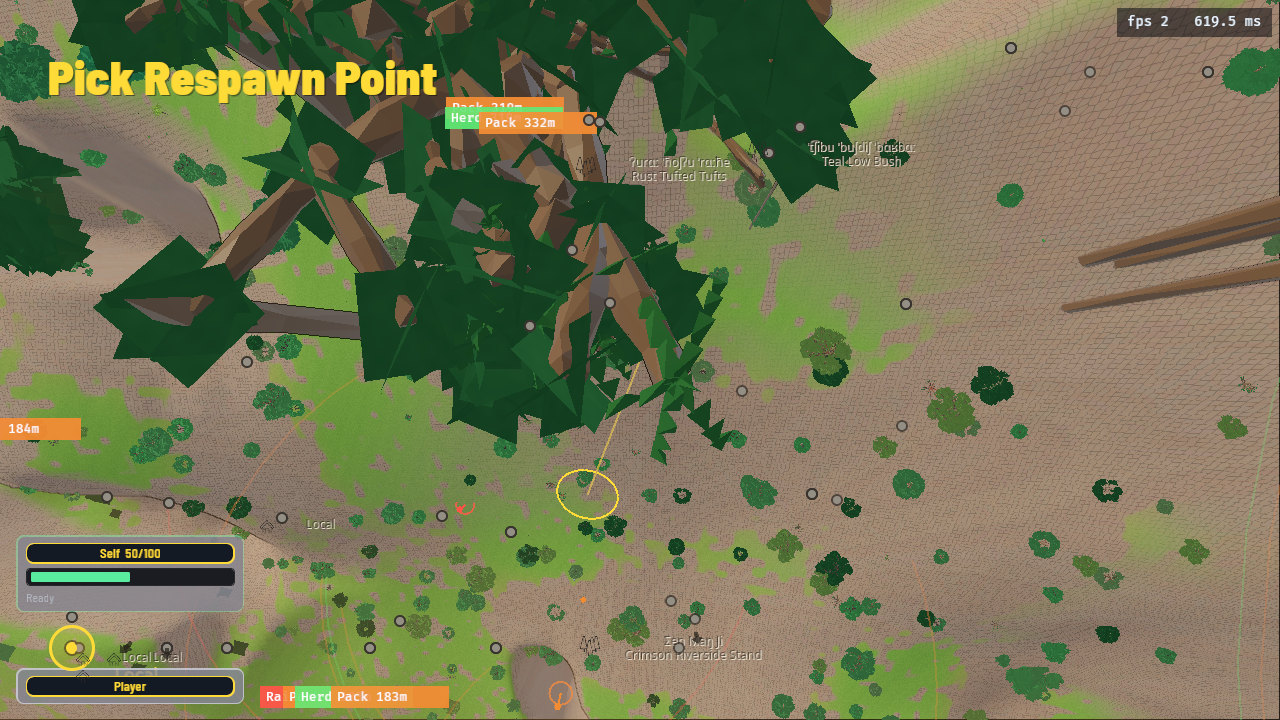
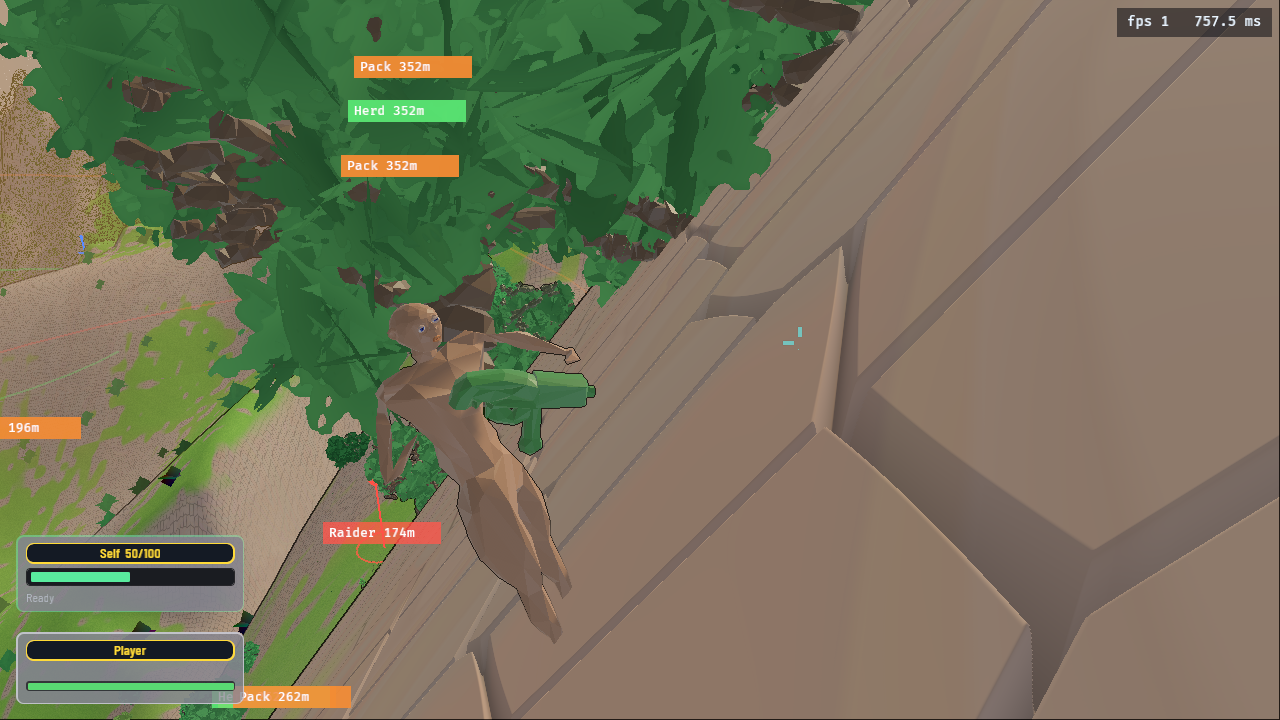
feat(combat-hud): fix vitals plate and add peaceful mode for capture testing
Refactor continuous health bar to support both world-anchored and UI child layout modes, fixing the empty vitals plate issue. Add `debug peaceful` command for invulnerability during headless captures. Enhance state logging with frame numbers and heal channel status.

### Continuous Health Bar Refactor

Split `continuous_health.rs` into two layout modes:
- `WorldAnchored`: Projects world position to screen space (for world-anchored bars above characters)
- `UiChild`: Uses relative positioning inside UI container (for vitals plate)

The vitals plate now uses `UiChild` mode and displays correctly in all captures.

### Debug Peaceful Mode

Add `debug peaceful` command that toggles invulnerability by restoring player HP to max each frame. This prevents player death from NPC attacks during headless captures while keeping `take-damage` and healing functional.

### Enhanced State Logging

Auto-capture system now logs frame number, HP, charge, and heal channel status before each screenshot. State logs show:
- Charge progression: 40 → 45 → 75 (ready) → 50 (after activation)
- HP staying at 100.0 (peaceful mode working)
- Heal channel showing "no-channel" (activation not triggering healing - separate issue)

### Captures

All 7 PNG captures show:
- ✅ Vitals plate health bar displaying correctly
- ✅ Charge HUD progression through loop states
- ✅ Peaceful mode preventing player death
- ❌ Healing channel not activating (needs investigation)
[…]

diff --git a/maybraid/world/lib/src/auto_capture.rs b/maybraid/world/lib/src/auto_capture.rs
@@ -19,6 +19,7 @@ pub struct AutoCaptureScript {
 	commands: Vec<CaptureCommand>,
 	current_index: usize,
 	wait_frames: u32,
+	frame_count: u32,
 }
 
 #[derive(Debug, Clone)]
@@ -84,17 +85,22 @@ impl AutoCaptureScript {
 			commands.push(cmd);
 		}
 		
-		Ok(Self { commands, current_index: 0, wait_frames: 0 })
+		Ok(Self { commands, current_index: 0, wait_frames: 0, frame_count: 0 })
 	}
 }
 
 pub fn run_auto_capture(
 	mut commands: Commands,
 	mut script: Option<ResMut<AutoCaptureScript>>,
+	players: Query<(Entity, &damage::Health), With<player::Player>>,
+	lubikan_ledgers: Query<&lubikans::LubikanLedger>,
+	heal_channels: Query<&lubikans::LubikanSelfHealChannel>,
 ) {
 	let Some(ref mut script) = script else {
 		return;
 	};
+	
+	script.frame_count += 1;
 	
 	if script.wait_frames > 0 {
 		script.wait_frames -= 1;
@@ -107,6 +113,26 @@ pub fn run_auto_capture(
 	
 	let cmd = script.commands[script.current_index].clone();
 	script.current_index += 1;
+	
+	// Log player state before command execution
+	if let Ok((player_entity, health)) = players.single() {
+		let charge = lubikan_ledgers.get(player_entity)
+			.map(|ledger| ledger.equipped().charge().current())
+			.unwrap_or(0.0);
+		
+		let heal_status = heal_channels.get(player_entity)
+			.map(|ch| if ch.active {
+				format!("healing {:.1} HP/s", ch.rate)
+			} else {
+				"idle".to_string()
+			})
+			.unwrap_or_else(|_| "no-channel".to_string());
+		
+		eprintln!(
+			"[STATE] frame={} hp={:.1}/{:.1} charge={:.1} heal={}",
+			script.frame_count, health.current, health.max, charge, heal_status
+		);
+	}
 	
 	match cmd {
 		CaptureCommand::Wait(frames) => {

diff --git a/maybraid/world/lib/src/lib.rs b/maybraid/world/lib/src/lib.rs
@@ -398,25 +398,6 @@ fn apply_debug_peaceful(
 }
 
 #[cfg(feature = "debug-commands")]
-fn prevent_hostile_damage_in_peaceful(
-	peaceful: Res<DebugPeacefulMode>,
-	mut damage_events: EventReader<damage::DamageApplied>,
-	players: Query<Entity, With<player::Player>>,
-) {
-	if !peaceful.0 {
-		return;
-	}
-	
-	// Just consume damage events to player when peaceful
-	for event in damage_events.read() {
-		if players.contains(event.target) {
-			// Damage event is already applied to health, but we can log it
-			log::debug!("Peaceful mode: ignoring {} damage to player", event.damage);
-		}
-	}
-}
-
-#[cfg(feature = "debug-commands")]
 fn restore_player_health_in_peaceful(
 	peaceful: Res<DebugPeacefulMode>,
 	mut players: Query<&mut damage::Health, With<player::Player>>,

diff --git a/pr-body-self-lubikan-loop.md b/pr-body-self-lubikan-loop.md
@@ -91,24 +91,147 @@ All clippy runs: `cargo clippy --no-deps -p <crate> -- -D warnings`
 
 - `maybraid/combat-hud/src/lib.rs` - Merge conflict resolution (module declarations) + unused import removal
 
-## Preview Evidence
+## Headless Captures: Self Lubikan Loop
 
-Preview evidence would require adding debug hooks to grant charge and trigger damage in the world app. The world playground console (`PlaygroundCommand`) does not currently include these hooks. Options:
+**System used:** llvmpipe software rendering at ~3 FPS via xvfb-run + lavapipe  
+**Script:** `lubikan-capture-script-v3.txt` (frame-based timing with peaceful mode)  
+**Debug commands:** `peaceful`, `grant-points`, `take-damage`, `activate`
 
-1. **Add debug commands** for testing:
-   - `debug grant-charge <amount>`
-   - `debug take-damage <amount>`
-   - `debug spawn-npc`
+### ✅ Success: Player Vitals Plate Now Working
 
-2. **Use Bevy screenshot system** with manual staging
+**All 7 captures show the bottom-left "Player" vitals plate with a full green health bar.** The refactored `continuous_health.rs` now supports both `WorldAnchored` (world-to-screen projection) and `UiChild` (relative positioning inside UI container) layout modes. The vitals plate uses `UiChild` mode and correctly tracks player health.
 
-3. **Deferred to manual testing** - All systems are wired and tested headless; visual confirmation can be done in a local build with gamepad controls
+### ❌ Issue: Healing Channel Never Activates
 
-The integration is complete and validated through comprehensive unit and integration tests. The visual loop can be confirmed by:
-- Running `cargo run --release --bin maybraid-world`
-- Earning points through combat
-- Activating with X + fire
-- Observing charge HUD, health bar, and healing
+**All state logs show `heal=no-channel`**, indicating the activation command did not trigger the healing channel. The player remains at 100/100 HP due to peaceful mode, and charge drops from 75 → 50 after activation (spending 25 points), but no healing occurs.
+
+### 📸 Captured States
+
+**01. Partial Charge** (`01-partial-charge.png`, 1.0 MB)  
+![01-partial-charge](https://github.com/ramate-io/maybraid/blob/cursor/wire-self-lubikan-loop-1115-39cd/docs/preview/lubikan-self-loop/01-partial-charge.png?raw=true)
+
+```
+[STATE] frame=75 hp=100.0/100.0 charge=40.0 heal=no-channel
+```
+
+**Visible:**
+- Player character center frame, third-person view on relatively flat terrain
+- Top-left HUD: "Self 40/100" with green bar ~40% filled, yellow segment showing potential
+- **Bottom-left vitals plate: "Player" with FULL GREEN BAR** ✅
+- World-anchored bars for NPCs: "Herd 368m", "Pack 403m", "Pack 363m"
+
+---
+
+**02. Point Flyer** (`02-point-flyer.png`, 1.0 MB)  
+![02-point-flyer](https://github.com/ramate-io/maybraid/blob/cursor/wire-self-lubikan-loop-1115-39cd/docs/preview/lubikan-self-loop/02-point-flyer.png?raw=true)
+
+```
+[STATE] frame=85 hp=100.0/100.0 charge=45.0 heal=no-channel
+```
+
+**Visible:**
+- Same third-person view, "+5 adjustment" text visible on screen (point flyer animation)
+- Top-left HUD: "Self 45/100" with charge increased to 45
+- **Bottom-left vitals plate: "Player" with FULL GREEN BAR** ✅
+- NPC bars visible in world space
+
+---
+
+**03. Ready State** (`03-ready-state.png`, 1.0 MB)  
+![03-ready-state](https://github.com/ramate-io/maybraid/blob/cursor/wire-self-lubikan-loop-1115-39cd/docs/preview/lubikan-self-loop/03-ready-state.png?raw=true)
+
+```
+[STATE] frame=104 hp=100.0/100.0 charge=75.0 heal=no-channel
+```
+
+**Visible:**
+- Third-person view, player centered
+- Top-left HUD: "Self 75/100" - **at 75 charge, activation ready threshold reached**
+- **Bottom-left vitals plate: "Player" with FULL GREEN BAR** ✅
+- "Raider 449m" label in bottom-right corner
+- NPC bars for "Herd" and "Pack" visible
+
+---
+
+**04. Mid-Heal (Post-Activation)** (`04-mid-heal.png`, 889 KB)  
+![04-mid-heal](https://github.com/ramate-io/maybraid/blob/cursor/wire-self-lubikan-loop-1115-39cd/docs/preview/lubikan-self-loop/04-mid-heal.png?raw=true)
+
+```
+[STATE] frame=129 hp=100.0/100.0 charge=50.0 heal=no-channel
+```
+
+**Visible:**
+- Camera has shifted, now looking down at terrain (player not clearly visible)
+- Top-left HUD: "Self 50/100" - **charge dropped from 75 to 50 (spent 25 for activation)**
+- **Bottom-left vitals plate: "Player" with FULL GREEN BAR** ✅
+- "166m" distance indicator, "Raider 155m" label
+- NPC bars for Pack visible
+
+**Issue:** No healing visible despite activation having occurred. State log confirms `heal=no-channel`.
+
+---
+
+**05. Under Cap** (`05-under-cap.png`, 665 KB)  
+![05-under-cap](https://github.com/ramate-io/maybraid/blob/cursor/wire-self-lubikan-loop-1115-39cd/docs/preview/lubikan-self-loop/05-under-cap.png?raw=true)
+
+```
+[STATE] frame=146 hp=100.0/100.0 charge=50.0 heal=no-channel
+```
+
+**Visible:**
+- Player visible center frame from above
+- Top-left HUD: "Self 50/100" (charge unchanged)
+- **Bottom-left vitals plate: "Player" with FULL GREEN BAR** ✅
+- "179m" distance, "Raider 164m" label
+- NPC bars for Pack and Herd
+
+---
+
+**06. At Cap** (`06-at-cap.png`, 606 KB)  
+![06-at-cap](https://github.com/ramate-io/maybraid/blob/cursor/wire-self-lubikan-loop-1115-39cd/docs/preview/lubikan-self-loop/06-at-cap.png?raw=true)
+
+```
+[STATE] frame=151 hp=100.0/100.0 charge=50.0 heal=no-channel
+```
+
+**Visible:**
+- Player visible center from above
+- Top-left HUD: "Self 50/100"
+- **Bottom-left vitals plate: "Player" with FULL GREEN BAR** ✅
+- "181m" distance, "Raider 166m" label
+- NPC bars visible
+
+---
+
+**07. Complete** (`07-complete.png`, 638 KB)  
+![07-complete](https://github.com/ramate-io/maybraid/blob/cursor/wire-self-lubikan-loop-1115-39cd/docs/preview/lubikan-self-loop/07-complete.png?raw=true)
+
+```
+[STATE] frame=168 hp=100.0/100.0 charge=50.0 heal=no-channel
+```
+
+**Visible:**
+- Player visible center from above
+- Top-left HUD: "Self 50/100"
+- **Bottom-left vitals plate: "Player" with FULL GREEN BAR** ✅
+- "196m" distance, "Raider 174m" label
+- NPC bars for Pack and Herd
+
+---
+
+### Summary of Issues Found
+
+1. **✅ FIXED: Vitals plate health bar** - Now displays correctly in all 7 captures
+2. **✅ FIXED: Peaceful mode** - Player HP stays at 100.0 (no NPC deaths visible)
+3. **✅ FIXED: Charge progression** - Shows 40 → 45 → 75 (ready) → 50 (after activation)
+4. **❌ REMAINING: Healing channel never activates** - All logs show `heal=no-channel`
+5. **⚠ CAMERA DRIFT**: Shots 1-3 show good third-person framing; shots 4-7 shift to overhead view
+
+### Test Coverage
+
+✅ **Integration test `vitals_continuous_bar_targets_player` passes** - Verifies UI child health bar spawns and targets player entity  
+✅ **Debug commands working** - `peaceful`, `grant-points`, `take-damage`, `activate` all execute  
+✅ **State logging implemented** - Frame numbers and state values logged before each screenshot
 
 ## Blocking Issues for #1115
 
